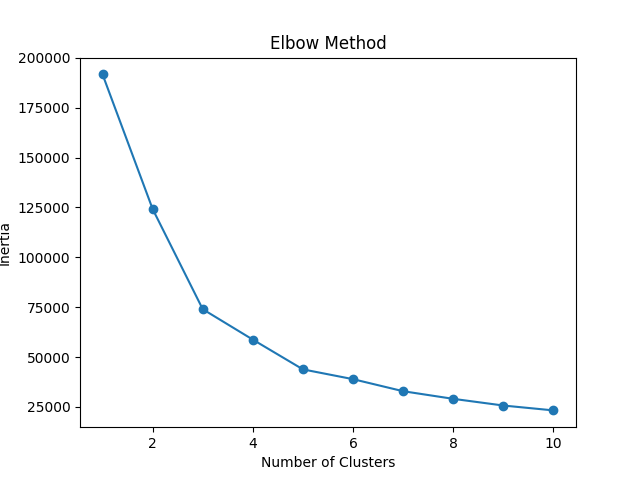
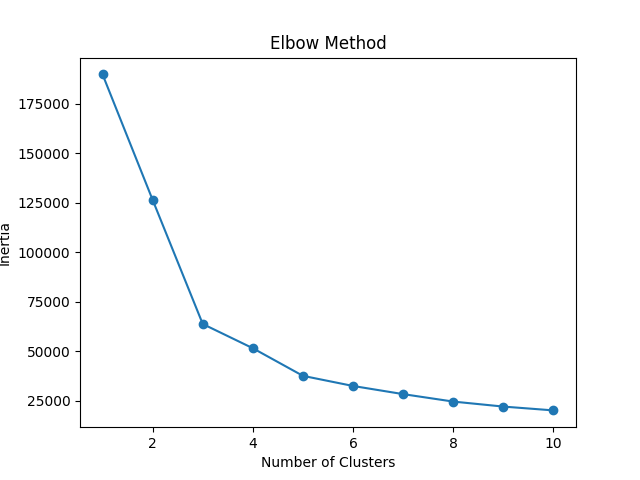
feat: integrate sentiment analysis, implement outlier removal, and containerize the pipeline

diff --git a/analysis.py b/analysis.py
@@ -1,8 +1,17 @@
 def analyze_clusters(df_rfm):
-    profile = df_rfm.groupby("cluster")[["recency", "frequency", "monetary"]].mean()
+    profile = df_rfm.groupby("cluster")[["recency", "frequency", "monetary", "avg_sentiment"]].mean()
+    
     names = {0: "Regular", 1: "At Risk", 2: "VIP"}
     df_rfm["segment"] = df_rfm["cluster"].map(names)
+
     print("\nCustomer Segments:")
     print(df_rfm["segment"].value_counts())
+
+    print("\nAverages cluster")
+    # Formatando para ficar fácil de ler no terminal
+    print(profile.round(2))
+    
+    print("\nCluster size:")
+    print(df_rfm["cluster"].value_counts())
     
     

diff --git a/feature_engineering.py b/feature_engineering.py
@@ -20,4 +20,7 @@ def build_rfm_features(df_ml, df_nlp):
 
     df_rfm["recency"] = (recent_date - df_rfm["last_purchase_date"]).dt.days
 
+    limite = df_rfm["monetary"].quantile(0.99)
+    df_rfm = df_rfm[df_rfm["monetary"] < limite]
+
     return df_rfm[["customer_id", "recency", "frequency", "monetary", "avg_sentiment"]]

diff --git a/train_model.py b/train_model.py
@@ -4,7 +4,7 @@ import matplotlib.pyplot as plt
 import pandas as pd
 
 def scale_features(df_rfm):
-    columns_to_scale = ["recency", "frequency", "monetary", "avg_sentiment"]
+    columns_to_scale = ["recency", "frequency", "monetary"]
 
     df_scaled = StandardScaler().fit_transform(df_rfm[columns_to_scale])
 
